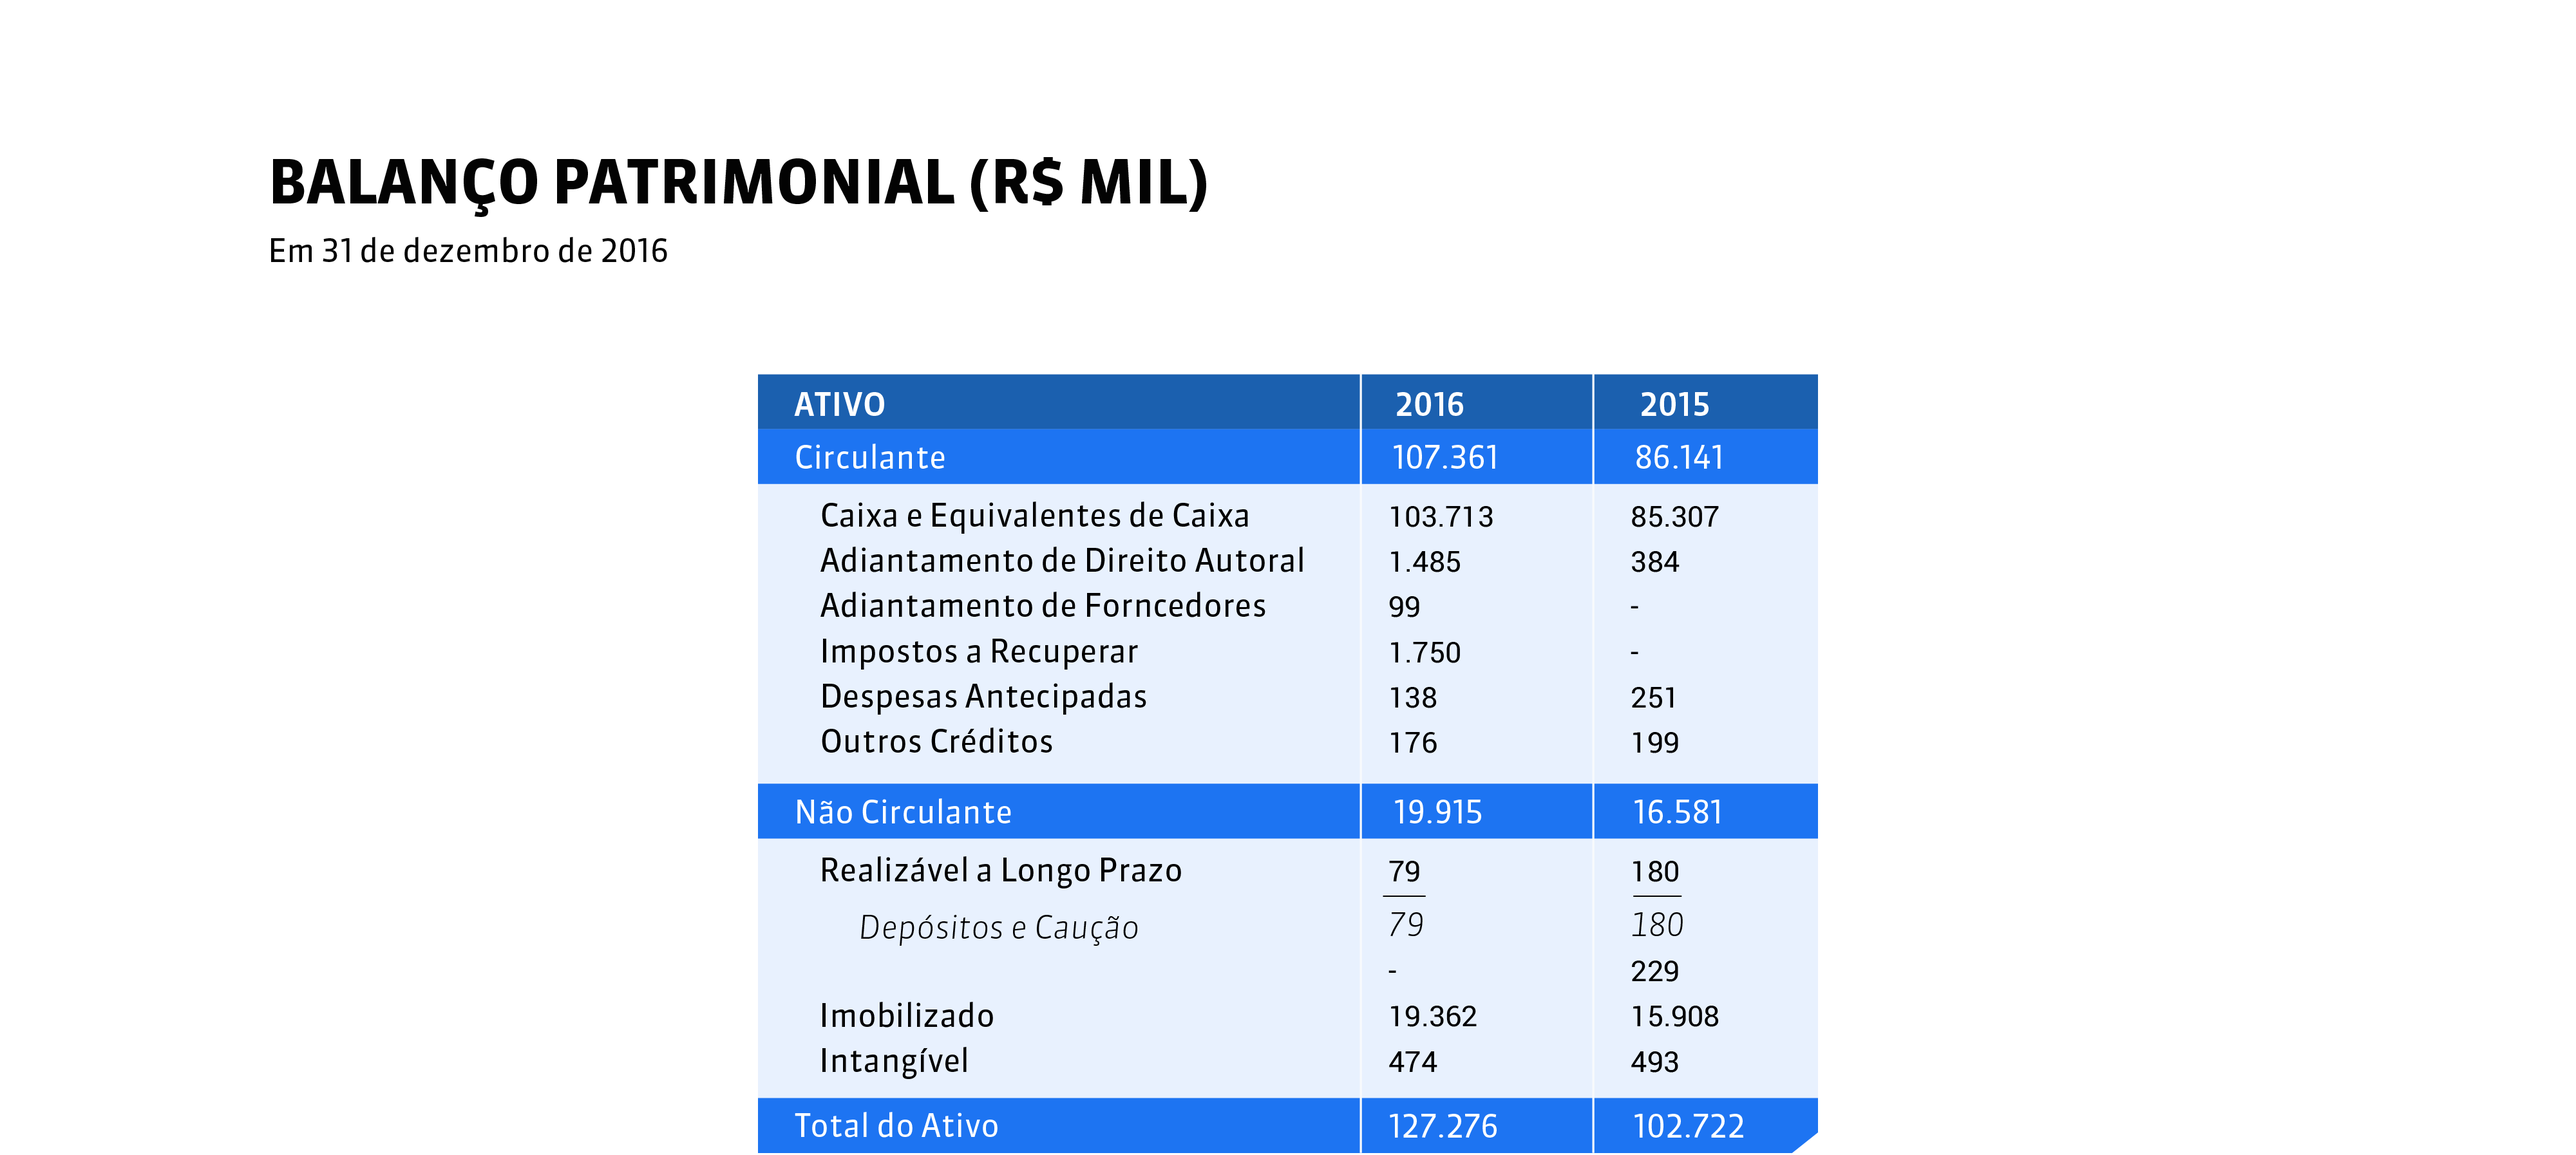
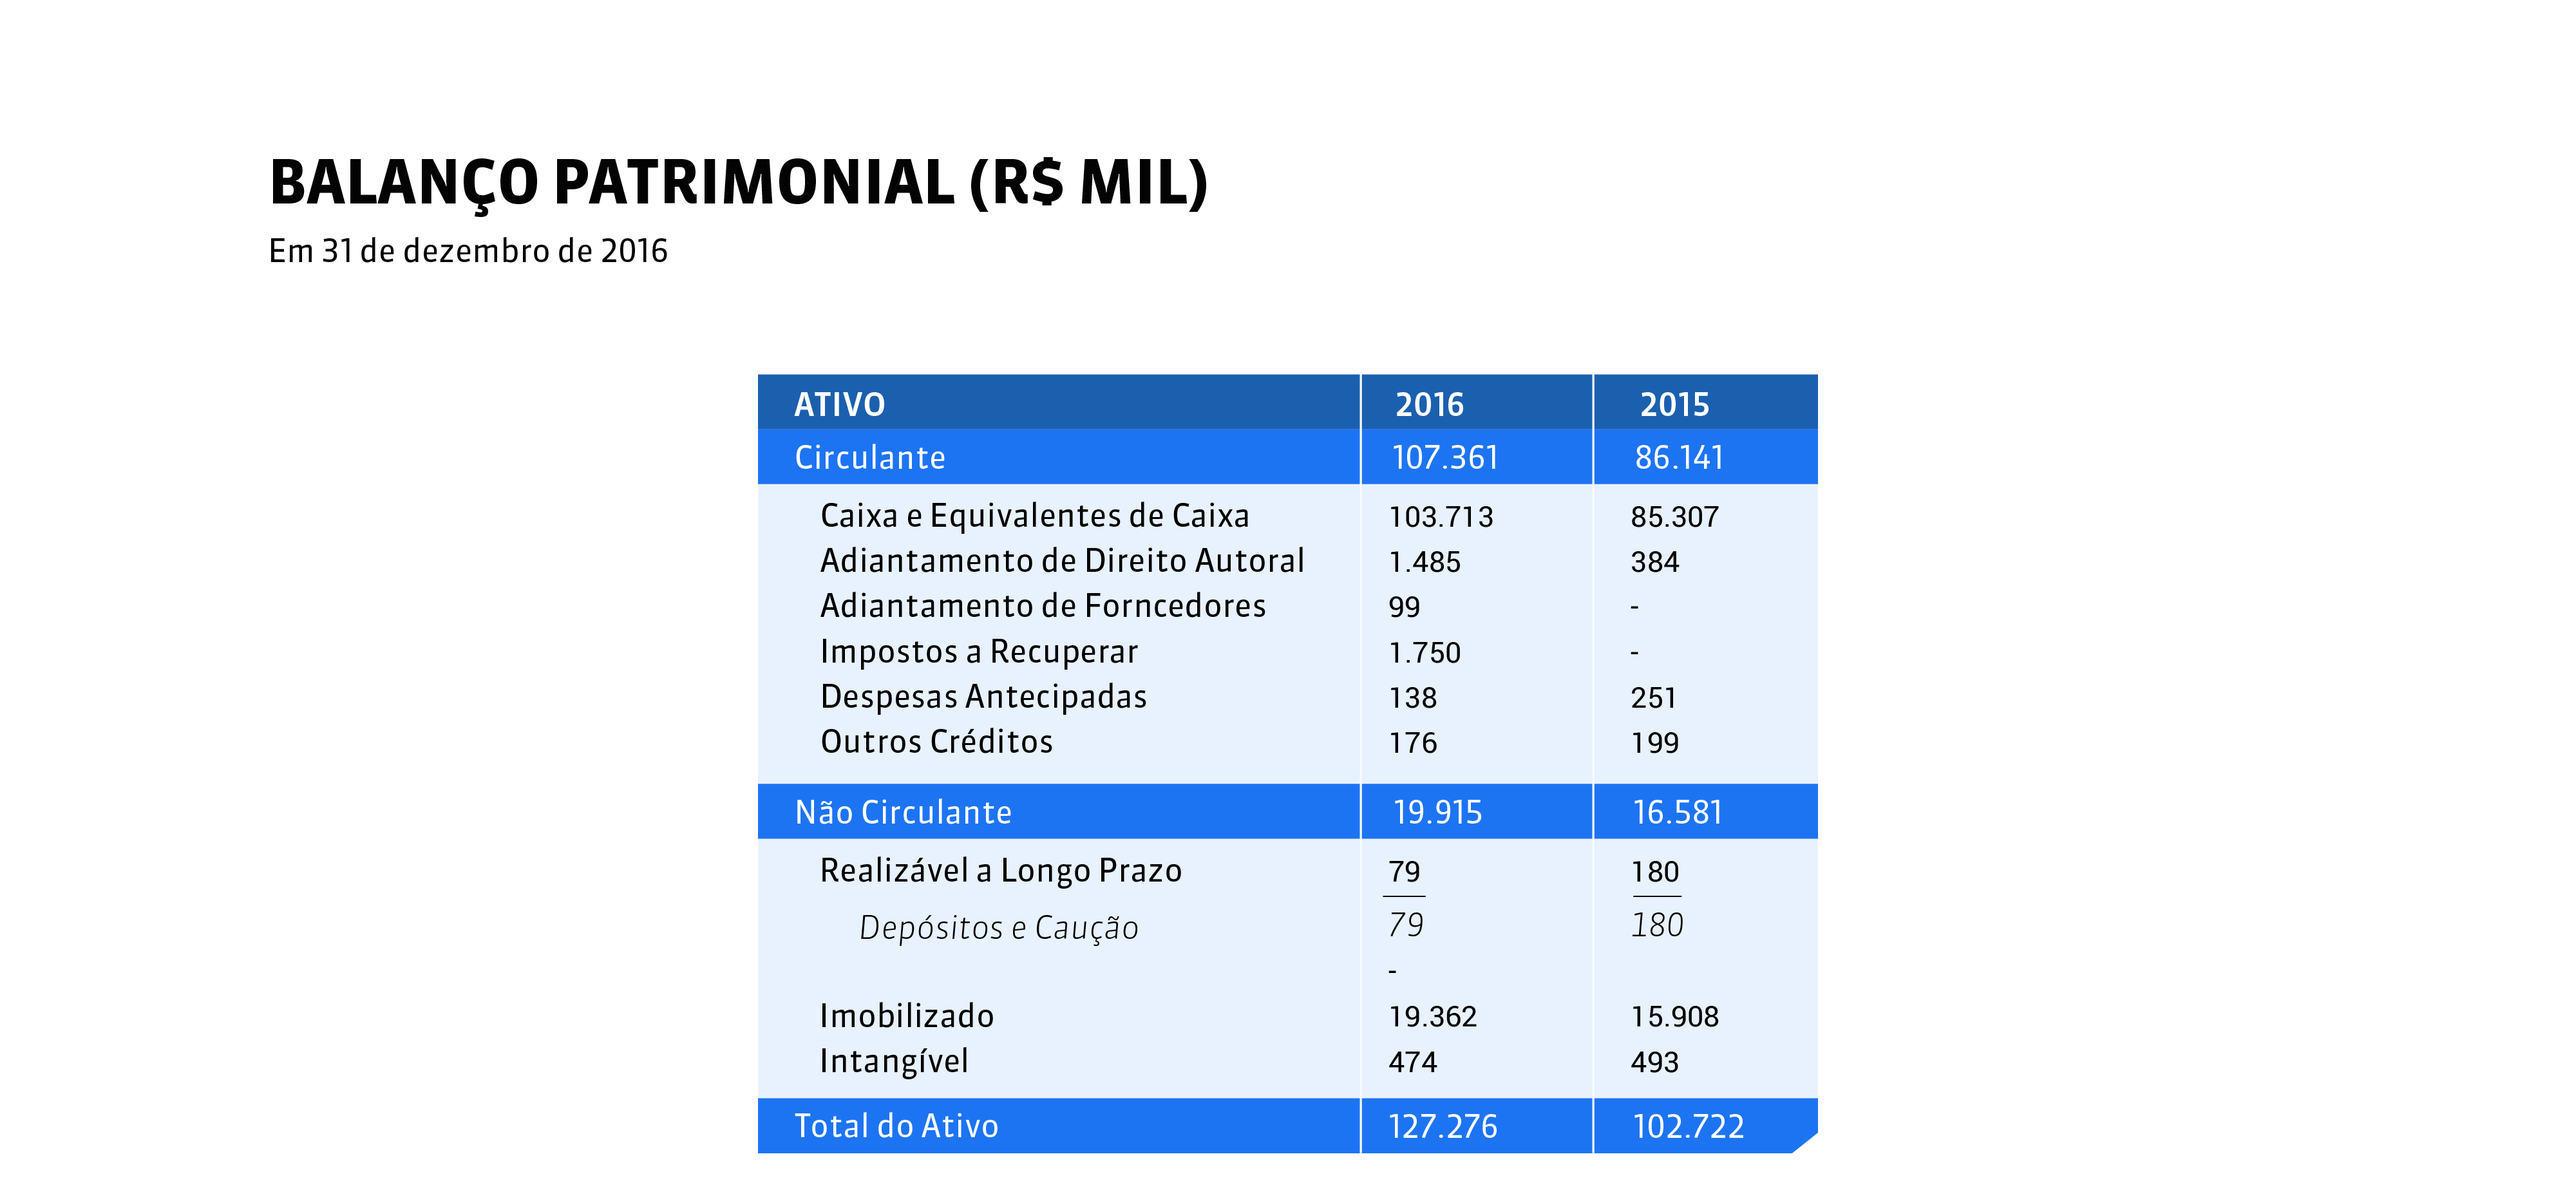
Ajustes textos

diff --git a/msg_diretoria.html b/msg_diretoria.html
@@ -134,17 +134,15 @@
         <div class="container">
             <div class="row">
                 <div class="col-lg-4 col-md-4 col-sm-12">
-                    <h5 class="text-danger font-SanukTF">SOB UMA ÓTICA AMPLA, O ANO DE 2016 FOI COMPLEXO PARA AS SOCIEDADES DE AUTORES EM DIFERENTES REGIÕES DO GLOBO"</h5></div>
+                    <h5 class="text-danger font-SanukTF">MÚSICA É ARTE, MAS TAMBÉM, MAIS DO QUE NUNCA, É BIG DATA. É NA TECNOLOGIA QUE NOS APOIAMOS PARA ENTREGAR MELHORES RESULTADOS E CUMPRIR NOSSO PAPEL FINANCEIRO E SOCIAL."</h5></div>
                 <div class="col-lg-4 col-md-4 col-sm-6">
-                    <p>O mercado musical vive em transformação. São inovações sem limites que oferecem oportunidades excelentes e, ao mesmo tempo, novos desafios. A música perdeu as barreiras e as fronteiras. Ela se move e se espalha rapidamente levando
-                        arte a todos os cantos.&nbsp; </p>
-                    <p>Música é arte, mas também é big data. Dar valor à música neste universo de regras dinâmicas é nosso foco e o que nos estimula.&nbsp; </p>
-                    <p>Em 2016 alcançamos excelentes resultados com um crescimento de 12% nos valores distribuídos, atingindo a marca de R$ 368 milhões. O número de criadores que receberam royalties deu um salto recorde de 58%. Um projeto de Business Intelligence
-                        que desenvolvemos nos permitiu representar quase 60% dos retidos liberado do Ecad, o bureau que arrecada execução pública no Brasil.&nbsp; </p>
+                    <p>O mercado musical vive em transformação permanente. São inovações sem limites e fronteiras que oferecem novas oportunidades e, ao mesmo tempo, novos desafios. A UBC é mais um reflexo deste movimento, em sua avidez por prestar melhores serviços dentro desta nova realidade para todos que fazem a música existir.</p>
+                    <p>Música é arte, mas também, mais do que nunca, é big data. É na tecnologia que nos apoiamos para entregar melhores resultados e cumprir nosso papel financeiro e social. Dar valor à música neste imenso universo de regras dinâmicas é nosso foco e o que nos estimula, cada vez mais. </p>
+                    <p>Em 2016 alcançamos excelentes resultados com um crescimento de 12% nos valores distribuídos, atingindo a marca de R$ 368 milhões. O número de criadores que receberam royalties deu um salto recorde de 58%. Um projeto de Business Intelligence que desenvolvemos nos permitiu representar quase 60% dos retidos liberados do Ecad, o bureau que arrecada execução pública no Brasil. </p>
                 </div>
                 <div class="col-lg-4 col-md-4 col-sm-6"><img src="assets/img/diretor.png">
-                    <p> Tudo isso foi possível por conta de um investimento de longo prazo em tecnologia e pelo aumento da eficiência nos processos, o que nos permitiu pagar mais royalties a muito mais pessoas.&nbsp; </p>
-                    <p>A mesma tecnologia que cria os novos problemas, os resolve. Somos uma sociedade de 75 anos que se deleita na inovação. &nbsp; &nbsp; </p>
+                    <p>Tudo isso foi possível por conta de um investimento de longo prazo em tecnologia e pelo aumento da eficiência nos processos, o que nos permitiu pagar mais royalties muito mais pessoas. </p>
+                    <p>A mesma tecnologia que cria os novos problemas, os resolve. Somos uma sociedade de 75 anos que se deleita na inovação.</p>
                 </div>
             </div>
         </div>

diff --git a/capitulo1.html b/capitulo1.html
@@ -141,15 +141,17 @@
                 <div class="col-lg-3 col-md-3 col-sm-9 col-lg-offset-1 col-md-offset-1" >
                     <h5 class="font-SanukTF"><b>“FOI DADO INÍCIO A UM PROCESSO DE REESTRUTURAÇÃO E REPOSICIONAMENTO DE MARCA A SER IMPLEMENTADO EM 2017” </b></h5></div>
                 <div class="col-lg-3 col-md-3 col-sm-6 ajuste-cap-1">
+                    <p>Em janeiro, a UBC anunciou seu novo CEO, Marcelo Castello Branco.</p>
+                    <p>O Rio de Janeiro foi sede das Olimpíadas.</p>
+                    <p>Foi dado início a um processo de reestruturação e reposicionamento de marca a ser implementado em 2017.</p>
+                    <p>A UBC foi reeleita para a Diretoria da Cisac, a Confederação Internacional de Sociedades de Autores e Compositores. O CEO da UBC integra também o Comitê Executivo de Governança da Cisac que tem o papel de orientar em questões estratégicas.</p>
+                    <p>As taxas administrativas da UBC foram reduzidas de 6,12% para 5,36% e as do Ecad de 13,88% para 12,4%. O titular passou a receber 82,5% do montante arrecadado.</p>
 
-                    <p>Em janeiro, a UBC anunciou seu novo CEO, Marcelo Castello Branco.O Rio de Janeiro foi sede das Olimpíadas.Foi dado início a um processo de reestruturação e reposicionamento de marca a ser implementado em 2017.A UBC foi reeleita para
-                        a Diretoria da Cisac, a Confederação Internacional de Sociedades de Autores e Compositores. O CEO da UBC integra também o Comitê Executivo de Governança da Cisac que &nbsp;tem o papel de orientar em questões estratégicas.As taxas
-                        administrativas da UBC foram reduzidas de 6,12% para 5,36% e as do Ecad de 13,88% para 12,4%. O titular passou a receber 82,5% do montante arrecadado.</p>
                 </div>
                 <div class="col-lg-5 col-md-5 col-sm-6 col-sm-offset-6"><img src="assets/img/imagem-1-1.png">
                     <div class="col-md-9 ml-12">
-                        <p>Entrada de novos associados no final de 2016, Warner Chappell, Som Livre, Warner Music, Sony Music, entre outros, que teve como consequência a criação do departamento conexo na UBC.Promoção de uma série de encontros com associados,
-                            chamados de Novos Meios, Novos Rumos, em diversas capitais brasileiras focados no esclarecimento sobre os direitos autorais em meios digitais.</p>
+                        <p>Entrada de novos associados no final de 2016, Warner Chappell, Som Livre, Warner Music, Sony Music, entre outros, que teve como consequência a criação do departamento conexo na UBC.</p>
+                    <p>Promoção de uma série de encontros com associados, chamados de Novos Meios, Novos Rumos, em diversas capitais brasileiras focados no esclarecimento sobre os direitos autorais em meios digitais.</p>S
                     </div>
                 </div>
             </div>

diff --git a/capitulo3.html b/capitulo3.html
@@ -134,20 +134,16 @@
                 <div class="col-lg-3 col-sm-6 col-xs-12">
                     <p class="visible-md visible-sm espaco60"></p>
                     <p>A UBC fechou o ano de 2016 com um total de 22,7 mil associados, dos quais 94% são pessoas físicas, sendo 9%, mulheres.</p>
-                    <p> O número de funcionários cresceu 3% em relação a 2015. Hoje, 55% deles são mulheres. </p>
+                    <p>O número de funcionários cresceu 3% em relação a 2015. Hoje, 55% deles são mulheres.</p>
                     <p>As despesas administrativas com correios sofreram redução de 51% com a extinção dos demonstrativos em papel em 2016.</p>
-                    <p>Os processos de cadastro tiveram um salto muito grande com relação aos anos anteriores. Em 2016, foram cadastradas aproximadamente 500 mil
-                        obras, 70 mil fonogramas e quase 5 mil audiovisuais. </p>
+                    <p>Os processos de cadastro tiveram um salto muito grande com relação aos anos anteriores. Em 2016, foram cadastradas aproximadamente 500 mil obras, 70 mil fonogramas e quase 5 mil audiovisuais.</p>
+                    <p></p>
                     <p><b>O cadastro de cue-sheets, em especial, foi 270% maior do que o ano anterior, o que acabou contribuindo para o crescimento dos valores distribuídos oriundos de cinema e TV. </b></p>
                 </div>
                 <div class="col-lg-5 col-sm-6 col-xs-12">
-
-                    <div class="col-md-9">
-                        <p class="visible-md visible-sm espaco60"></p>
-                        <p>A arrecadação de direitos autorais de execução pública no Brasil é feita através do Escritório Central de Arrecadação e Distribuição, o Ecad, que registrou um aumento de 1,6% com relação ao ano de 2015, totalizando R$ 1,04 bilhões
-                            em 2016.&nbsp; </p>
-                    </div>
-                    <img src="assets/img/imagem-3-1.png" width="100%"></div>
+                    <img src="assets/img/imagem-3-1.png" width="100%">
+                </div>
+                <p>Foi investido um total de meio milhão de reais no programa de assistência, que tem o objetivo de fornecer aos associados um pacote de benefícios que lhes permita enfrentar eventuais necessidades de sobrevivência, lhes garanta um mínimo de assistência à saúde, de remuneração e de orientações assistenciais.</p>
             </div>
         </div>
     </div>

diff --git a/capitulo4.html b/capitulo4.html
@@ -177,7 +177,7 @@
                         estrangeiras que representam nosso repertório e direitos de reprodução. </p>
                 </div>
                 <div class="col-lg-5 col-md-5 col-sm-12">
-                    <p class="tamanho22">Arrecadação total em milhões (R$) </p><img src="assets/img/grafico-4-3.png">
+                    <p class="tamanho22">Arrecadação total por tipo direto </p><img src="assets/img/grafico-4-3.png">
                     <p>A arrecadação total do Ecad, registrou um crescimento de apenas 1,6% de 2015 para 2016, enquanto o crescimento nominal da arrecadação da UBC com relação ao ano anterior foi de 10%. </p>
                 </div>
             </div>

diff --git a/capitulo6.html b/capitulo6.html
@@ -162,7 +162,7 @@
             <h5 class="font-SanukTF">BALANÇO PATRIMONIAL (R$ MIL)</h5></div>
         <div class="container">
             <div class="row">
-                <div class="col-lg-10 col-lg-offset-1 col-md-10 col-md-offset-1 col-sm-12"><img src="assets/img/tabela.jpg" width="100%" ></div>
+                <div class="col-lg-10 col-lg-offset-1 col-md-10 col-md-offset-1 col-sm-12"><img src="assets/img/tabela.png" width="100%" ></div>
             </div>
         </div>
     </div>
